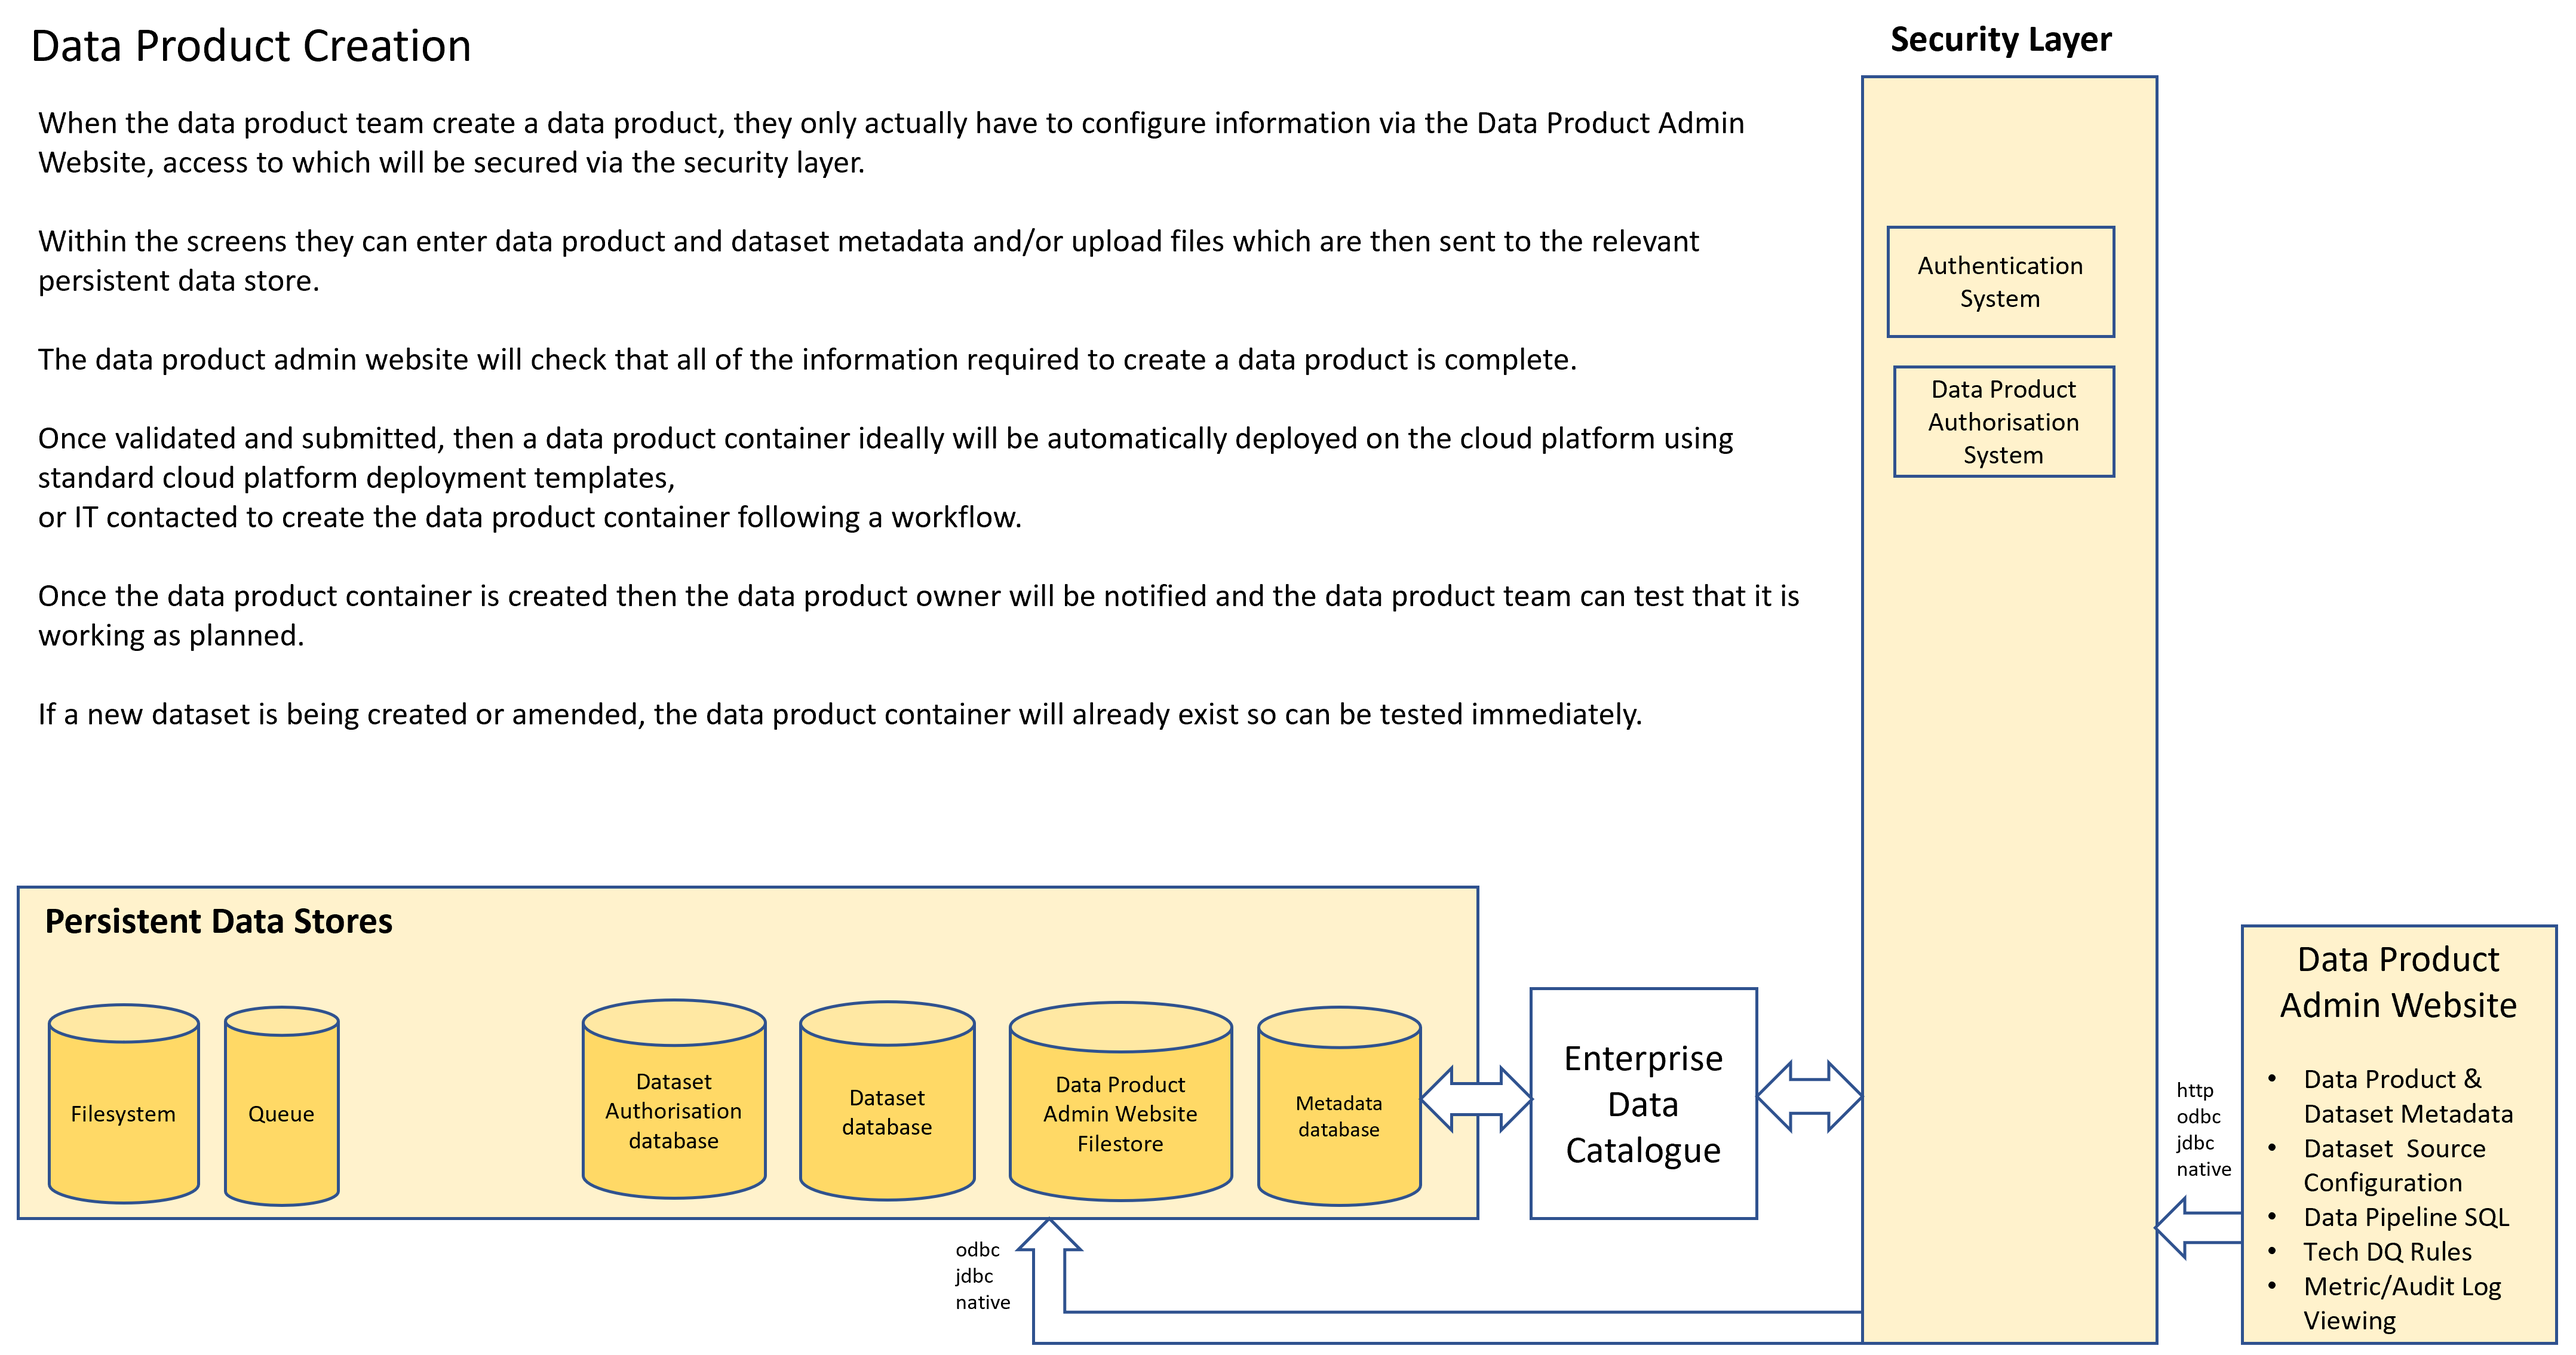
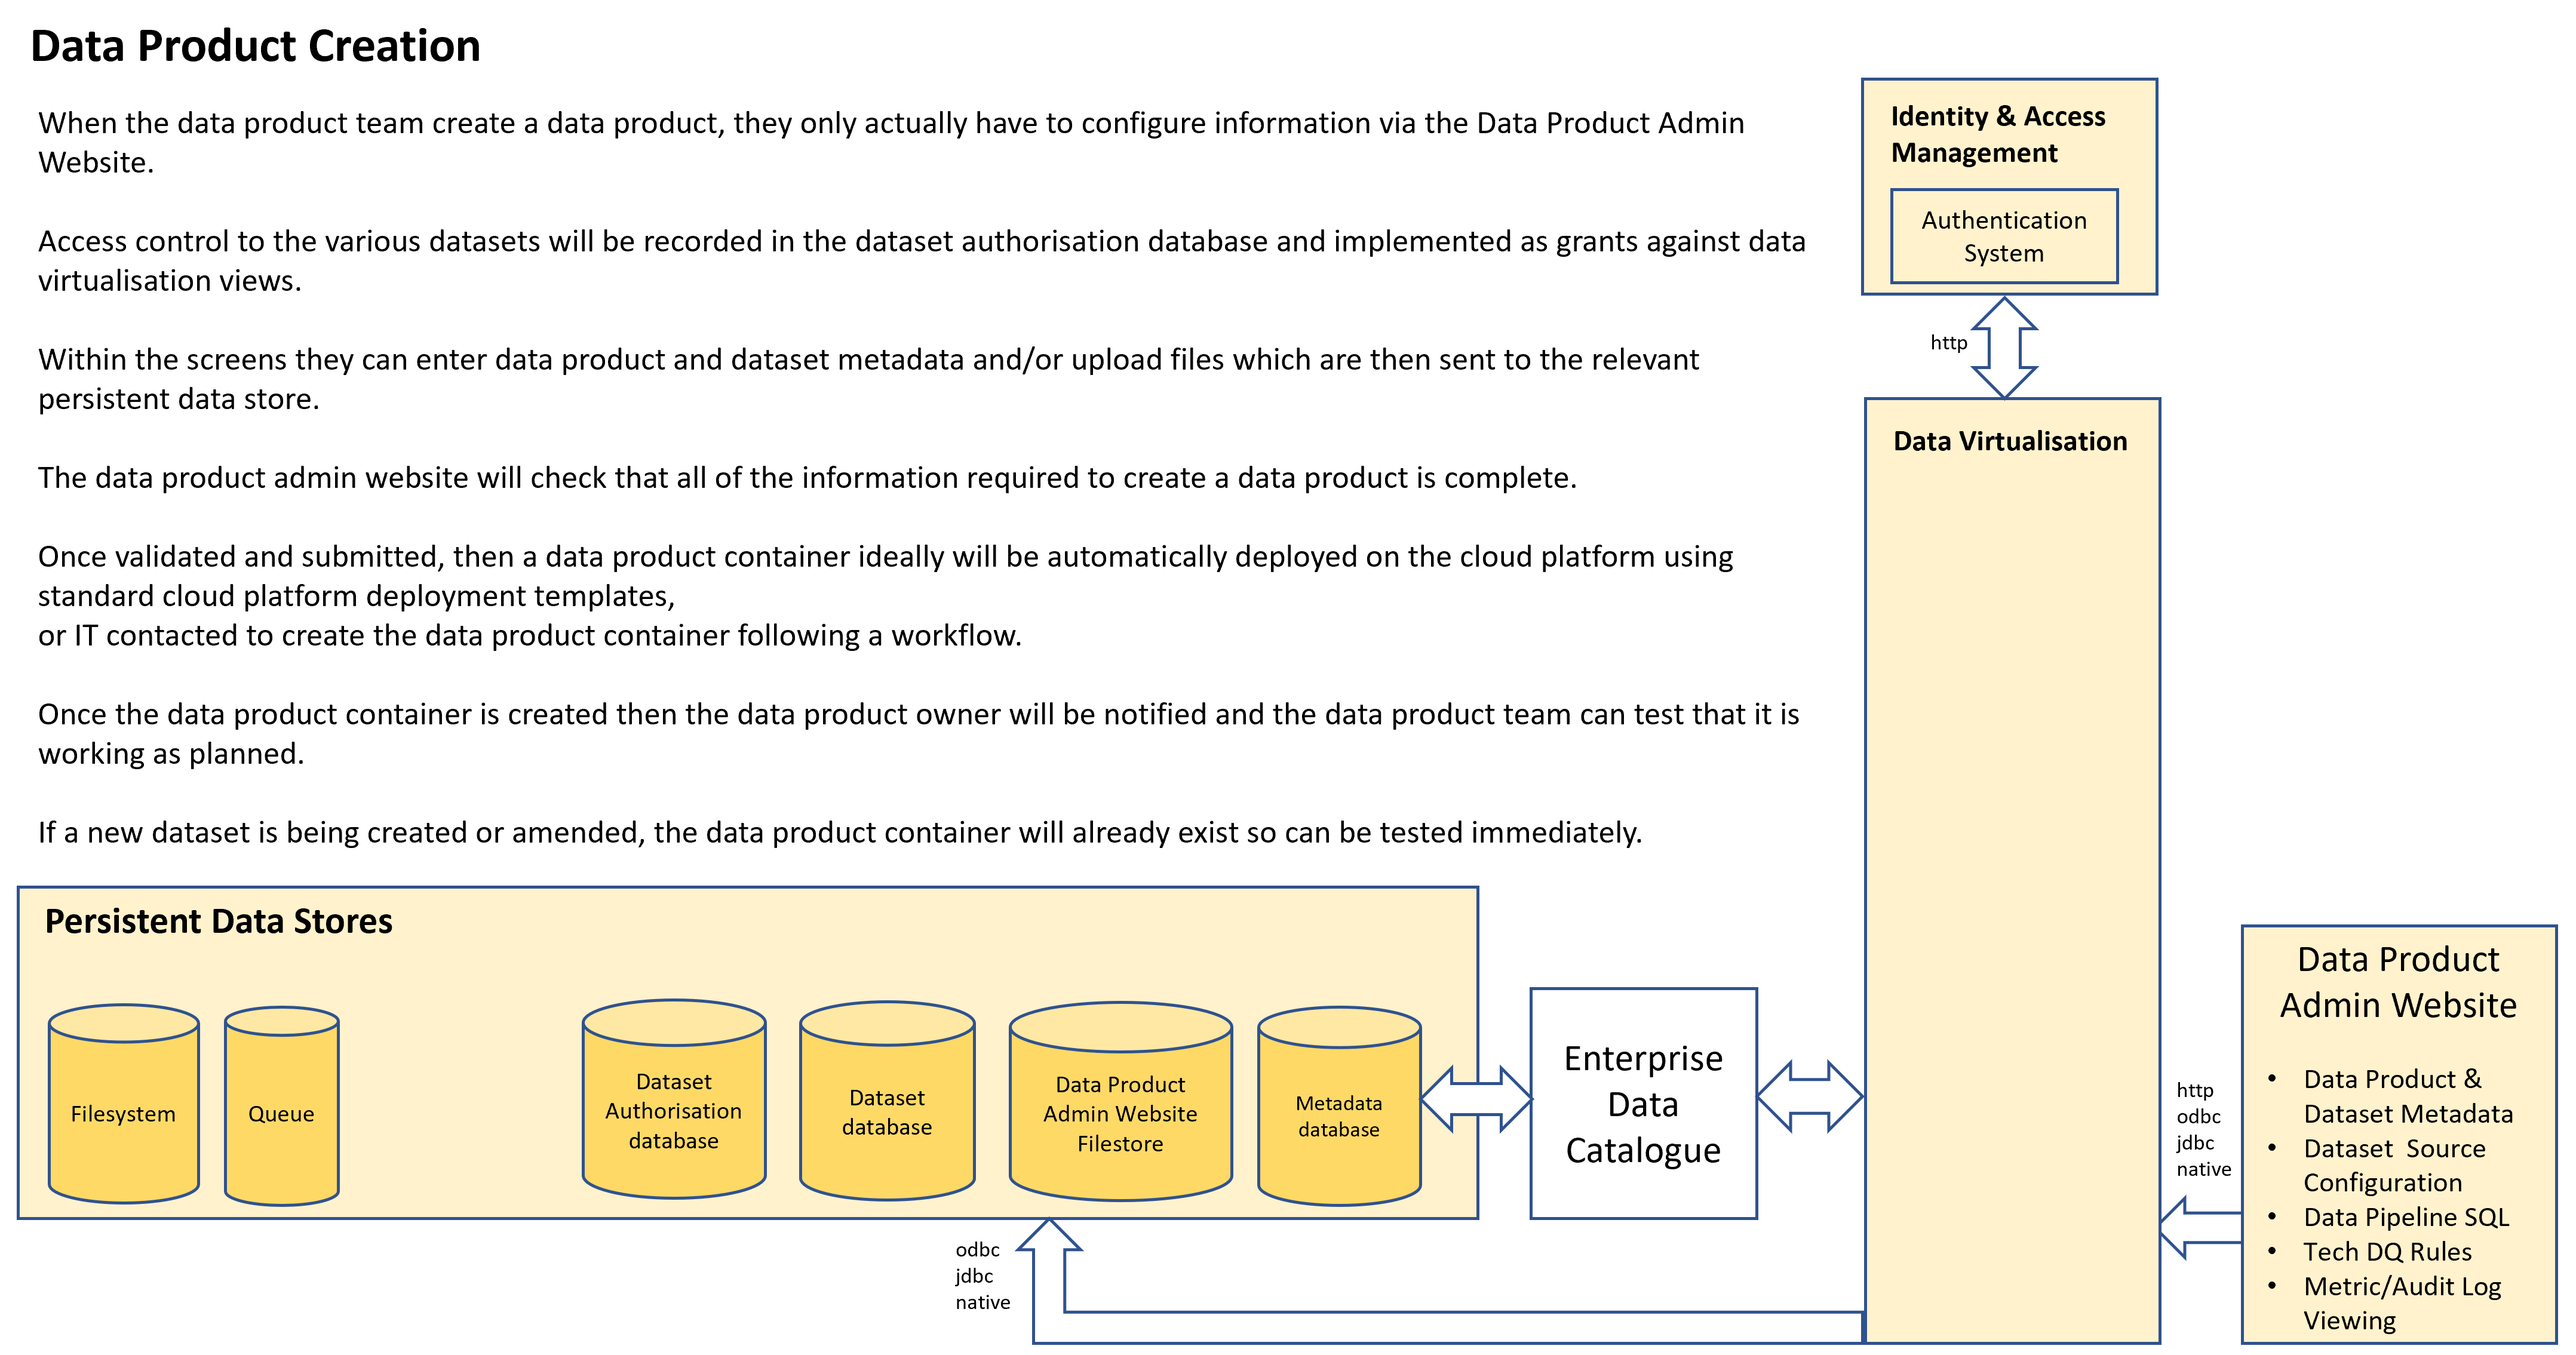
Introduced the data virtualisation tool as a key component to address user authorisation, addressability and polyglot. Amended existing diagrams to show what that covers. Removed the data product gateway as it's an optional component and doesnt add clarity.

diff --git a/dataset-consumption.md b/dataset-consumption.md
@@ -1,16 +1,7 @@
 # Dataset Consumption
-Slightly different consumption patterns will exist dependent on the manner in which the data consumer wants to be able to access a data product dataset.
-The options are via
-* An API endpoint
-* From a relational database
-* From a queue
+By using a data virtualisation component in the reference architecture, data consumption becomes a lot easier.
+The data virtualisation layer provides wrappers for a variety of persistent data store types (queues, files, data lakes, relational dataabases etc.) and the datasets then effectively operate in the same way as SQL views with grant permissions against these views controlling access to the underlying datasets.
 
-## Dataset consumption via an API endpoint
-The diagram below explains how it's envisaged that a dataset can be retrieved from an API endpoint
 
-![API dataset consumption](api-dataset-consumption.png)
+![API dataset consumption](dataset-consumption.png)
 
-## Dataset consumption from a relational database
-The diagram below shows an alternative path by which the user can retrieve a dataset by directly fetching it from the dataset database
-
-![Database dataset consumption](database-dataset-consumption.png)

diff --git a/index.md b/index.md
@@ -16,6 +16,9 @@ It will cover the following topics:-
    * [Data product & dataset creation architecture](data-product-and-dataset-creation.md)
    * [Dataset population architecure ](dataset-population.md)
    * [Dataset consumption architecture](dataset-consumption.md)
+* The [data product admin website](dp-admin-website.md)
+* The [data marketplace](data-marketplace.md)
+* [Data Virtualisation](data-virtualisation.md)
 * The creation of [data stores](dp-datastores.md) to store data captured from:-
    * Source to an Input Data Port/endpoint
    * Transformed into an abstraction layer
@@ -37,8 +40,6 @@ It will cover the following topics:-
 * Creation of data models in a [data modelling tool](data-modeling-tool.md)
 * How to create and where to store data lineage diagrams
 * Storage of metadata in a [data governance tool](data-governance-tool.md)
-* Creation of a [data product admin website](dp-admin-website.md)
-* Creation of a [data marketplace](data-marketplace.md)
 * [Infrastructure](dp-infrastructure.md)
 
 [james.m.dey](mailto://james.dey@hotmail.com) February 2023

diff --git a/data-virtualisation.md b/data-virtualisation.md
@@ -1,0 +1,15 @@
+# Data Virtualisation
+
+Data Virtualisation is a key component in the reference architecture. It needs to provide the following capabilities:-
+
+1. Pull/push datasets from different persistant data store types (files, queues, relational databases, data lakes etc)
+2. Expose the datasets as sql accessible views
+3. Integrate with an organisation's authentication system
+4. Apply user authorisation policies against the sql accessible views
+5. Provide odbc, jdbc and API access to the datasets
+6. Convert datasets to different formats e.g. CSV, JSON, XML, HTML
+
+From a data mesh/data product perspective, Data Virtualisation covers the need for:-
+1. Datasets to be globally addressable in a standardised way
+2. Dataset user authorisation policies to be uniformally implemented for different data product types.
+3. Polyglot (i.e. multi-format)
